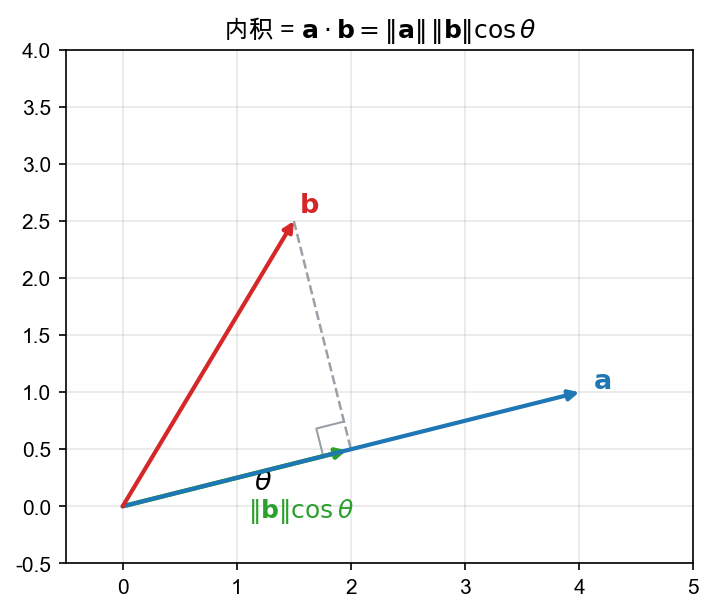
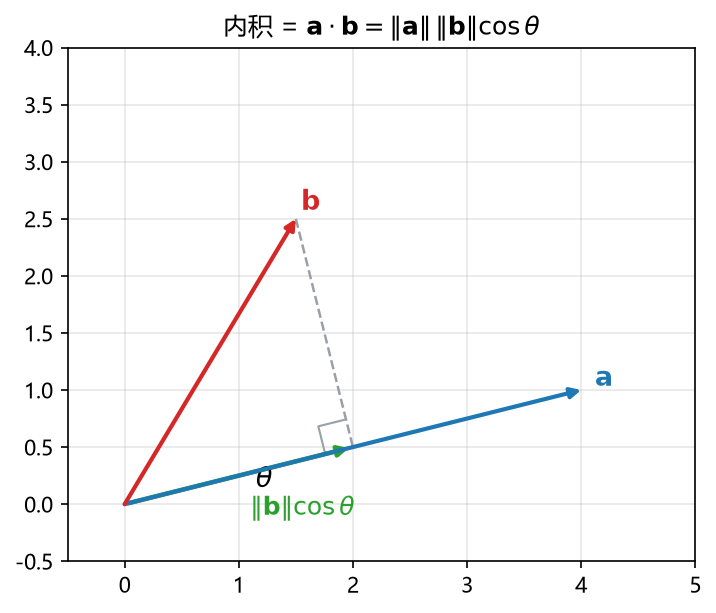
板书配图: 重生成几何图 + 新增 S004 正交/投影三图（图片 churn 单独提交）

diff --git a/ml-math-tutor/系统/工具/生成几何图.py b/ml-math-tutor/系统/工具/生成几何图.py
@@ -16,7 +16,8 @@ matplotlib.use("Agg")
 import matplotlib.pyplot as plt  # noqa: E402
 import numpy as np  # noqa: E402
 
-plt.rcParams["font.sans-serif"] = ["Arial Unicode MS", "Hiragino Sans GB", "Songti SC"]
+plt.rcParams["font.sans-serif"] = ["Arial Unicode MS", "Microsoft YaHei", "SimHei",
+                                  "Hiragino Sans GB", "Songti SC"]
 plt.rcParams["axes.unicode_minus"] = False
 
 ROOT = os.path.dirname(os.path.dirname(os.path.dirname(os.path.abspath(__file__))))
@@ -411,6 +412,121 @@ def fig_det_columns():
     save(fig, "fig_det_columns.png")
 
 
+# --- 图 13：正交 = 夹角 90°（点积为 0），夹角与点积符号 ---------------------
+def fig_orthogonality():
+    fig, axes = plt.subplots(1, 3, figsize=(12.6, 4.3))
+    a = np.array([2.2, 0.0])
+    cases = [
+        ("锐角：$\\mathbf{a}\\cdot\\mathbf{b}>0$", np.array([1.7, 1.5]), GREEN),
+        ("直角：$\\mathbf{a}\\cdot\\mathbf{b}=0$（正交）", np.array([0.0, 2.2]), RED),
+        ("钝角：$\\mathbf{a}\\cdot\\mathbf{b}<0$", np.array([-1.2, 1.6]), GRAY),
+    ]
+    for ax, (title, b, color) in zip(axes, cases):
+        arrow(ax, *a, BLUE, lw=2.4, label=r"$\mathbf{a}$")
+        arrow(ax, *b, color, lw=2.4, label=r"$\mathbf{b}$")
+        # 直角标记（仅中间的"正交"图）
+        if abs(np.dot(a, b)) < 1e-12:
+            u = b / np.linalg.norm(b)
+            v = a / np.linalg.norm(a)
+            s = 0.3
+            pts = np.array([u * s, u * s + v * s, v * s])
+            ax.plot(pts[:, 0], pts[:, 1], color="k", lw=1.2)
+            ax.text(0.1, 0.55, r"$90^\circ$", fontsize=12)
+            ax.text(0.7, 1.0, r"$\mathbf{a}^{\top}\mathbf{b}=0$", color=RED, fontsize=12)
+        ax.set_title(title, fontsize=11)
+        ax.axhline(0, color=GRAY, lw=0.8)
+        ax.axvline(0, color=GRAY, lw=0.8)
+        ax.set_xlim(-2.2, 3.0)
+        ax.set_ylim(-0.8, 2.8)
+        ax.set_aspect("equal")
+        ax.grid(True, alpha=0.2)
+        ax.legend(loc="lower right", fontsize=10, frameon=False)
+    fig.suptitle("正交 = 夹角 90° = 内积为 0；内积的符号就是夹角的锐/直/钝",
+                 y=1.03)
+    save(fig, "fig_orthogonality.png")
+
+
+# --- 图 14：投影到一条直线 = 拆成"平行分量 + 垂直分量" ----------------------
+def fig_projection_line():
+    fig, ax = plt.subplots(figsize=(6.0, 5.4))
+    a = np.array([3.0, 4.0])
+    b = np.array([4.0, 2.0])
+    t = np.dot(a, b) / np.dot(a, a)          # = 0.8
+    p = t * a                                # (2.4, 3.2)
+    e = b - p                                # (1.6, -1.2)
+
+    # 直线 span{a}
+    tt = np.linspace(-0.6, 2.2, 2)
+    ax.plot(a[0] * tt, a[1] * tt, ls="--", color=GRAY, lw=1.2,
+            label=r"直线 $\mathrm{span}\{\mathbf{a}\}$")
+    ax.annotate("", xy=a, xytext=(0, 0),
+                arrowprops=dict(arrowstyle="-|>", color=BLUE, lw=2.2))
+    ax.text(a[0] * 1.02, a[1] * 1.02, r"$\mathbf{a}$", color=BLUE, fontsize=13)
+    ax.annotate("", xy=b, xytext=(0, 0),
+                arrowprops=dict(arrowstyle="-|>", color=RED, lw=2.4))
+    ax.text(b[0] + 0.08, b[1] + 0.08, r"$\mathbf{b}$", color=RED, fontsize=13)
+    # 投影 p 与残差 e
+    ax.annotate("", xy=p, xytext=(0, 0),
+                arrowprops=dict(arrowstyle="-|>", color=GREEN, lw=2.6))
+    ax.text(p[0] - 1.35, p[1] + 0.45, r"$\mathbf{p}=\mathrm{proj}_{\mathbf{a}}\mathbf{b}$",
+            color=GREEN, fontsize=12)
+    ax.annotate("", xy=b, xytext=p,
+                arrowprops=dict(arrowstyle="-|>", color="#8c564b", lw=2.0))
+    ax.text((p[0] + b[0]) / 2 + 0.05, (p[1] + b[1]) / 2 - 0.35,
+            r"$\mathbf{e}=\mathbf{b}-\mathbf{p}$", color="#8c564b", fontsize=12)
+    # 直角标记
+    u = a / np.linalg.norm(a)
+    n = e / np.linalg.norm(e)
+    s = 0.28
+    pts = np.array([p + n * s, p + n * s + u * s, p + u * s])
+    ax.plot(pts[:, 0], pts[:, 1], color="k", lw=1.1)
+    ax.scatter([p[0]], [p[1]], color=GREEN, s=30, zorder=6)
+    ax.text(0.02, 0.96, r"$\mathbf{p}=t\,\mathbf{a},\quad t=\dfrac{\mathbf{a}^{\top}\mathbf{b}}{\mathbf{a}^{\top}\mathbf{a}}=0.8$",
+            transform=ax.transAxes, va="top", fontsize=12)
+    ax.set_title("投影 = 只保留 $\\mathbf{b}$ 沿 $\\mathbf{a}$ 方向的分量", fontsize=12)
+    ax.axhline(0, color=GRAY, lw=0.8)
+    ax.axvline(0, color=GRAY, lw=0.8)
+    ax.set_xlim(-1.0, 5.4)
+    ax.set_ylim(-1.0, 5.2)
+    ax.set_aspect("equal")
+    ax.grid(True, alpha=0.2)
+    ax.legend(loc="lower right", fontsize=9, frameon=False)
+    save(fig, "fig_projection_line.png")
+
+
+# --- 图 15：投影到一个平面（列空间）—— 残差垂直平面 = 最小二乘的几何 --------
+def fig_projection_subspace():
+    from mpl_toolkits.mplot3d import Axes3D  # noqa: F401
+
+    fig = plt.figure(figsize=(6.6, 5.6))
+    ax = fig.add_subplot(111, projection="3d")
+    # 平面：span{e1, e2} = 列空间
+    g = np.linspace(-0.3, 2.6, 2)
+    GX, GY = np.meshgrid(g, g)
+    ax.plot_surface(GX, GY, np.zeros_like(GX), color="#cfe3ff", alpha=0.45,
+                    edgecolor=GRAY, linewidth=0.4)
+    y = np.array([1.4, 1.0, 2.0])
+    p = np.array([1.4, 1.0, 0.0])
+    r = y - p
+    ax.quiver(0, 0, 0, *y, color=RED, lw=2.4, arrow_length_ratio=0.08)
+    ax.quiver(0, 0, 0, *p, color=BLUE, lw=2.4, arrow_length_ratio=0.08)
+    ax.quiver(p[0], p[1], p[2], *r, color=GREEN, lw=2.4, arrow_length_ratio=0.12)
+    ax.text(*(y * 1.04), r"$\mathbf{y}$", color=RED, fontsize=13)
+    ax.text(*(p * 1.03 + np.array([0, 0, 0.08])), r"$\hat{\mathbf{y}}$", color=BLUE, fontsize=13)
+    ax.text(*(p + r / 2 + np.array([0.1, 0.05, 0.0])), r"$\mathbf{r}=\mathbf{y}-\hat{\mathbf{y}}$",
+            color=GREEN, fontsize=11)
+    ax.set_xlabel(r"$x_1$")
+    ax.set_ylabel(r"$x_2$")
+    ax.set_zlabel(r"$x_3$")
+    ax.set_title("投影到子空间：残差 $\\mathbf{r}\\perp$ 列空间\n（最小二乘就是找平面上离 $\\mathbf{y}$ 最近的点）",
+                 fontsize=11)
+    ax.set_xlim(0, 2.4)
+    ax.set_ylim(0, 2.4)
+    ax.set_zlim(0, 2.4)
+    ax.view_init(elev=20, azim=-58)
+    save(fig, "fig_projection_subspace.png")
+
+
 if __name__ == "__main__":
     fig_vector()
     fig_inner()
@@ -424,4 +540,7 @@ if __name__ == "__main__":
     fig_span()
     fig_independence()
     fig_det_columns()
+    fig_orthogonality()
+    fig_projection_line()
+    fig_projection_subspace()
     print("全部完成 ->", os.path.relpath(OUT, ROOT))
